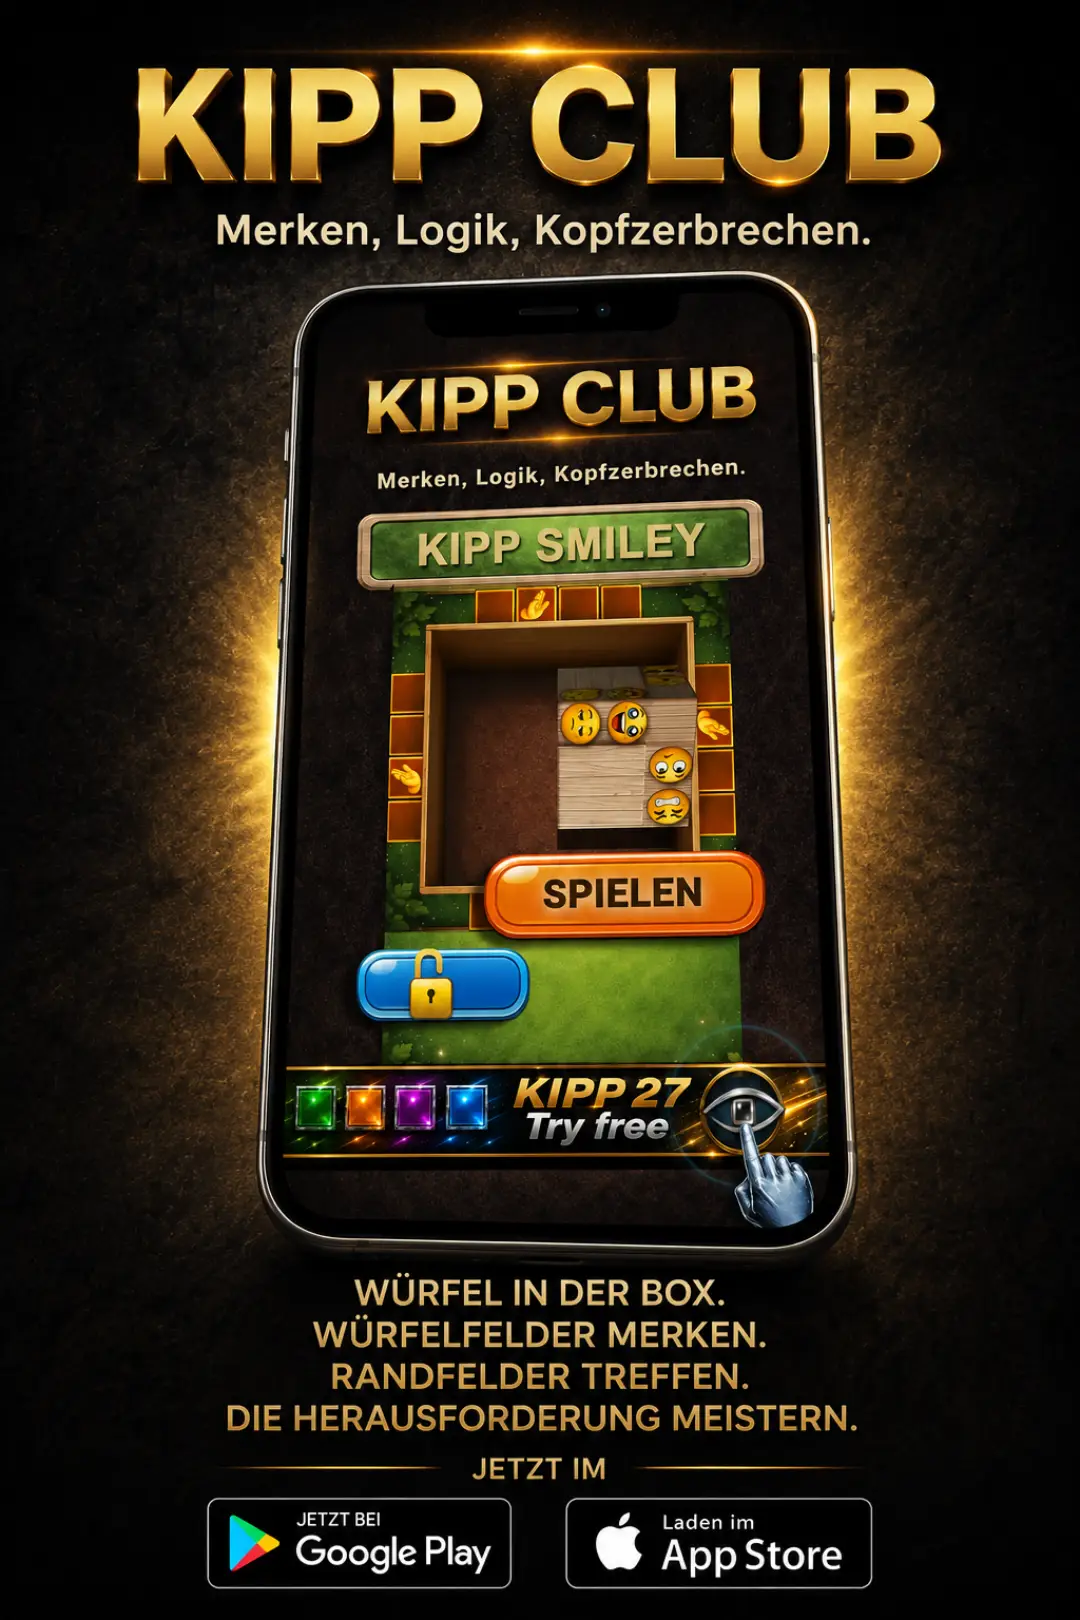
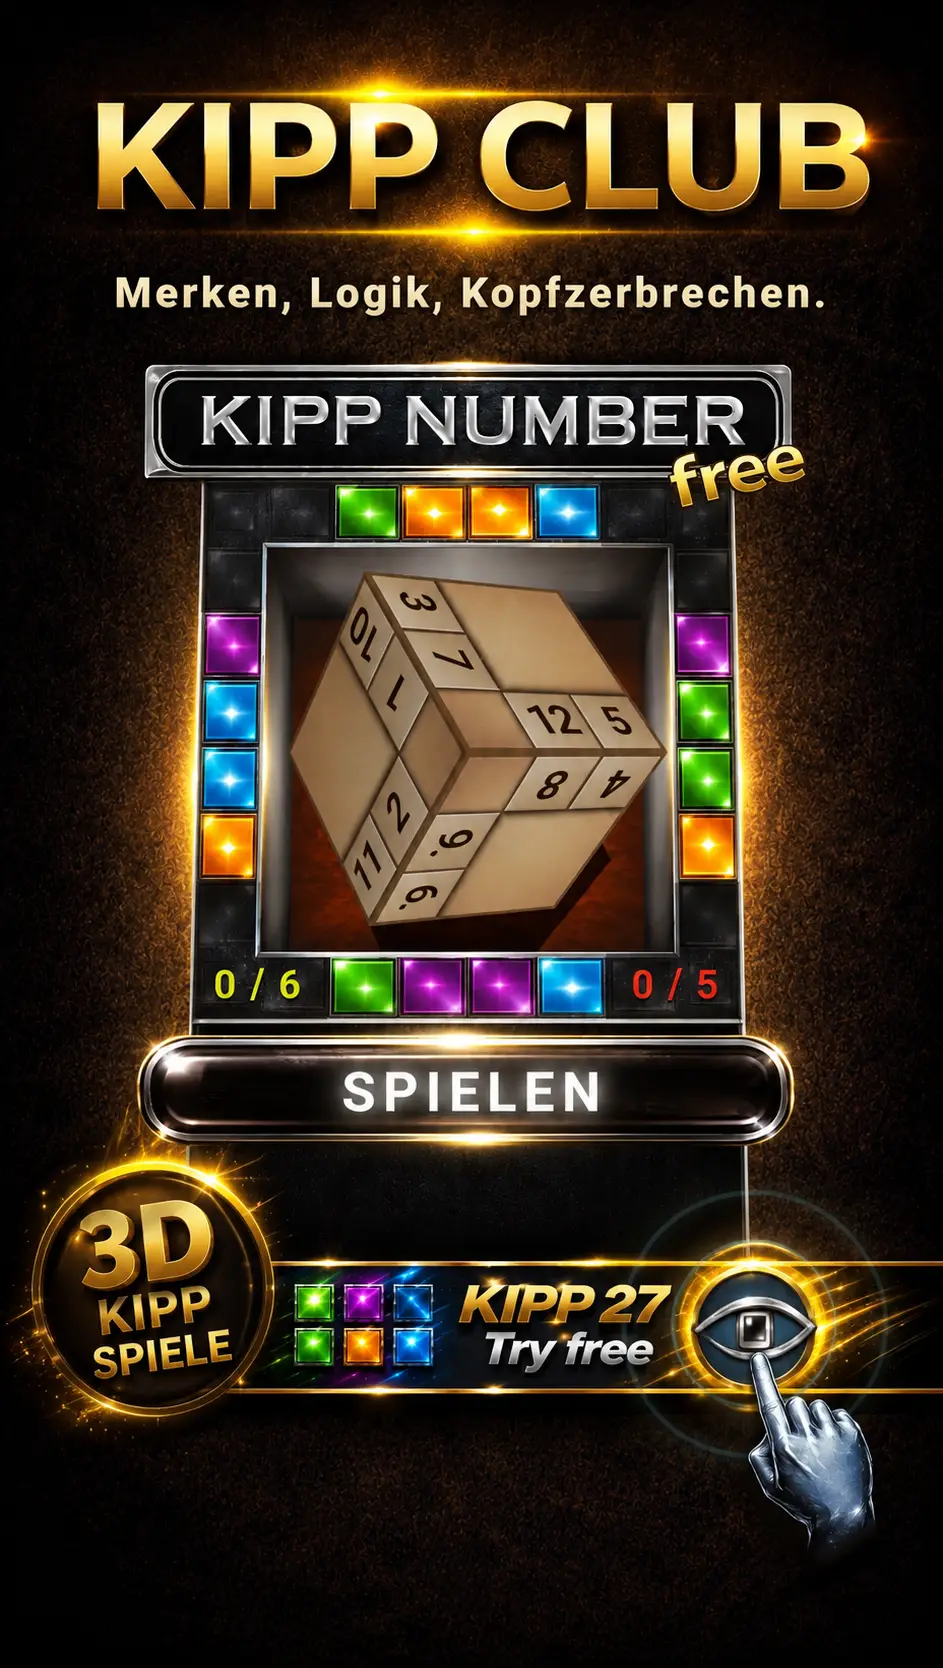
Add files via upload

diff --git a/index.html b/index.html
@@ -323,8 +323,11 @@
 
     <!-- SPIELWERBUNG -->
     <section class="reveal" id="spiel">
-      <img class="werbung-bild" src="Kippwerbung_kopf.webp" alt="Spielwerbung oben">
-      <img class="werbung-bild" src="Kippwerbung_fuß.webp" alt="Spielwerbung unten">
+      <img class="werbung-bild" src="kippclub_start.webp" alt="KIPP CLUB">
+      <div class="stores">
+        <a href="#"><img src="GooglePlay.webp" alt="Jetzt bei Google Play"></a>
+        <a href="#"><img src="AppStore.webp"   alt="Laden im App Store"></a>
+      </div>
     </section>
 
     <!-- RUBRIKEN AKKORDEON -->